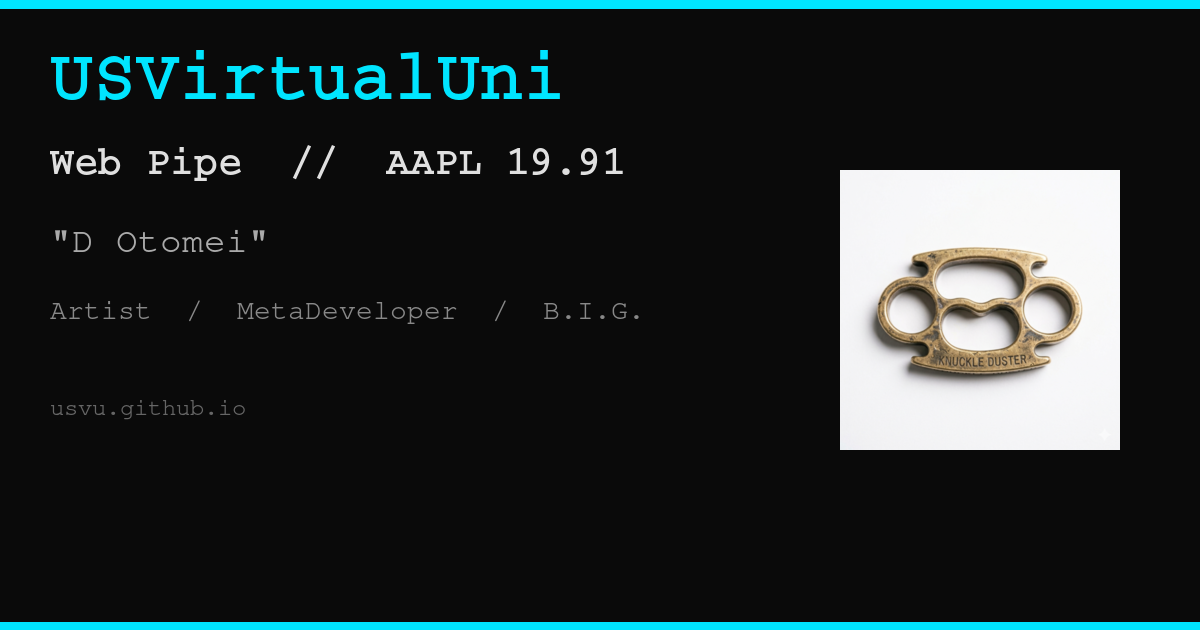
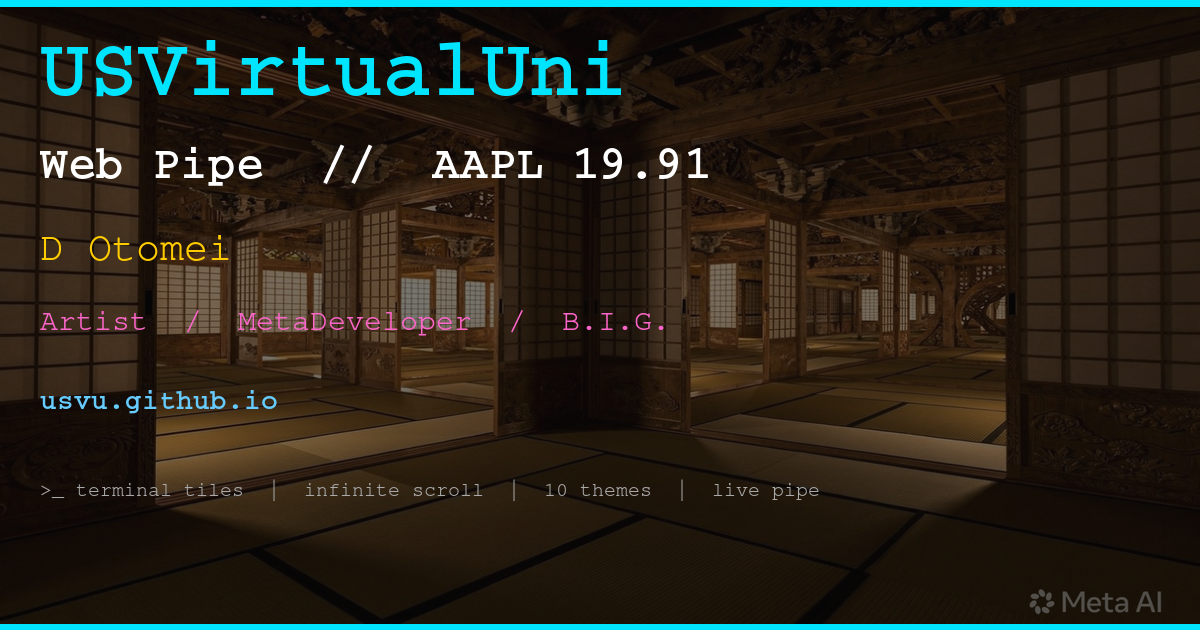
Add files via upload

diff --git a/index.html b/index.html
@@ -6,15 +6,16 @@
 <title>USVirtualUni — Web Pipe — AAPL 19.91 — "D Otomei"</title>
 <meta property="og:title" content="USVirtualUni — Web Pipe — AAPL 19.91 — &quot;D Otomei&quot;">
 <meta property="og:description" content="Artist / MetaDeveloper / B.I.G. — Terminal-style tile dashboard with live market data, streaming pipes, and multi-theme UI.">
-<meta property="og:image" content="https://kredtidy.tumblr.com/kredtidy-og-preview.png">
+<meta property="og:image" content="https://usvu.github.io/kredtidy-og-preview.png">
 <meta property="og:image:width" content="1200">
 <meta property="og:image:height" content="630">
+<meta property="og:image:type" content="image/png">
 <meta property="og:type" content="website">
-<meta property="og:url" content="https://kredtidy.tumblr.com/kredtidy-tiles">
+<meta property="og:url" content="https://usvu.github.io/">
 <meta name="twitter:card" content="summary_large_image">
 <meta name="twitter:title" content="USVirtualUni — Web Pipe — AAPL 19.91 — &quot;D Otomei&quot;">
 <meta name="twitter:description" content="Artist / MetaDeveloper / B.I.G. — Terminal-style tile dashboard with live market data, streaming pipes, and multi-theme UI.">
-<meta name="twitter:image" content="https://kredtidy.tumblr.com/kredtidy-og-preview.png">
+<meta name="twitter:image" content="https://usvu.github.io/kredtidy-og-preview.png">
 <link rel="icon" type="image/png" sizes="32x32" href="favicon-32x32.png">
 <link rel="icon" type="image/png" sizes="16x16" href="favicon-16x16.png">
 <link rel="shortcut icon" href="favicon.ico">
